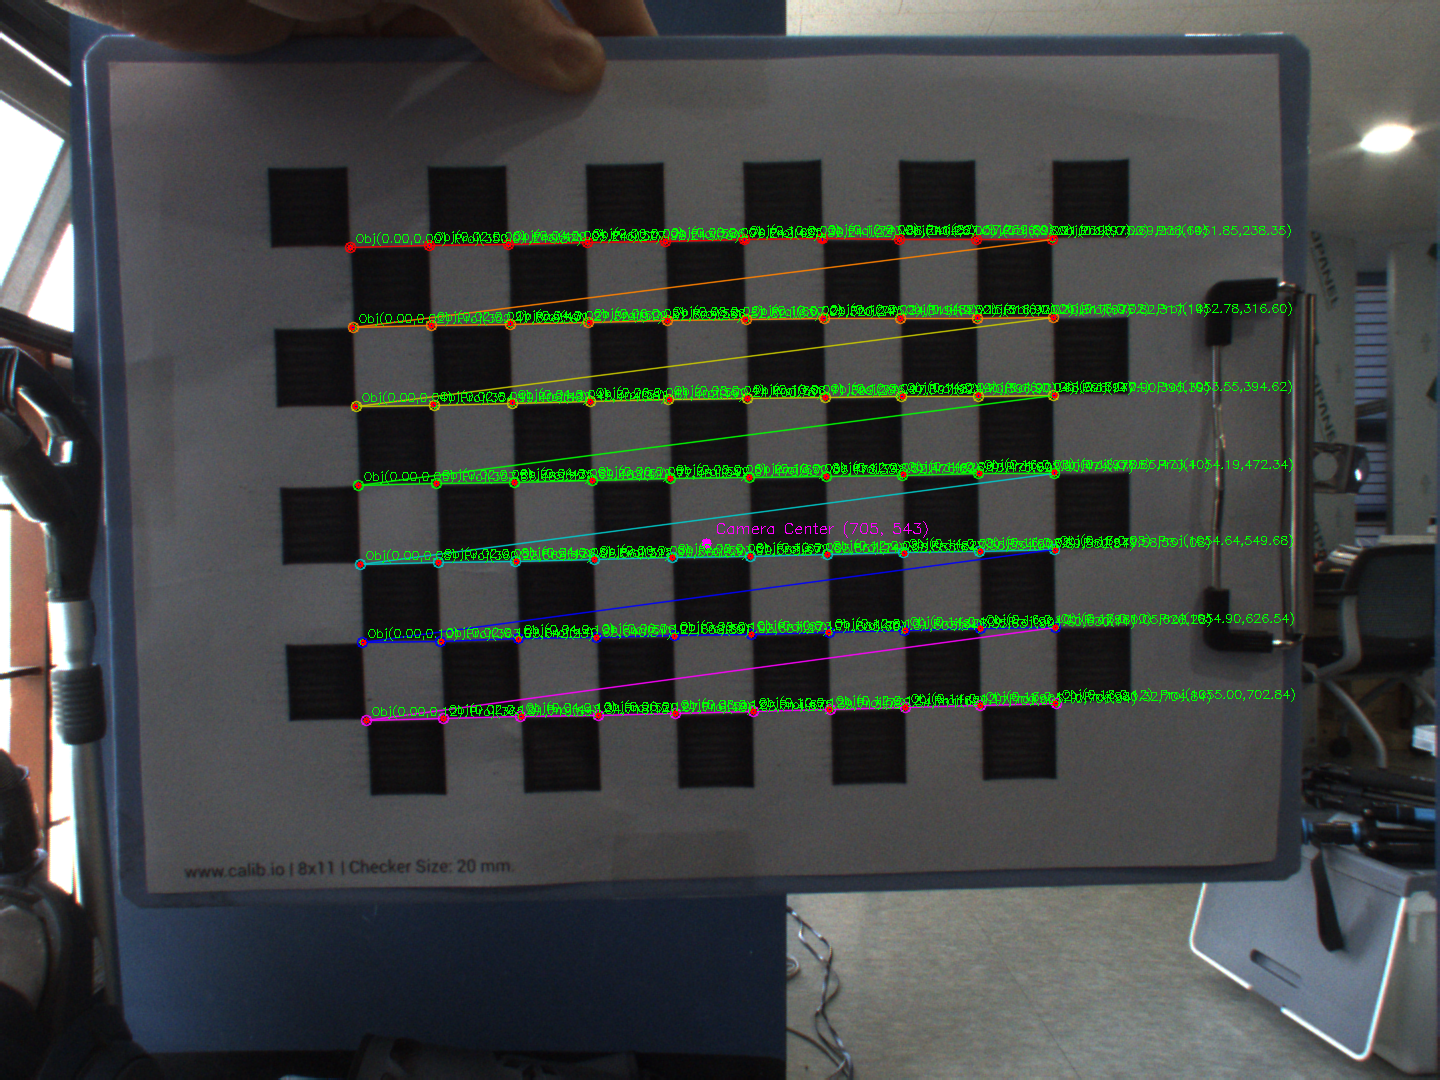
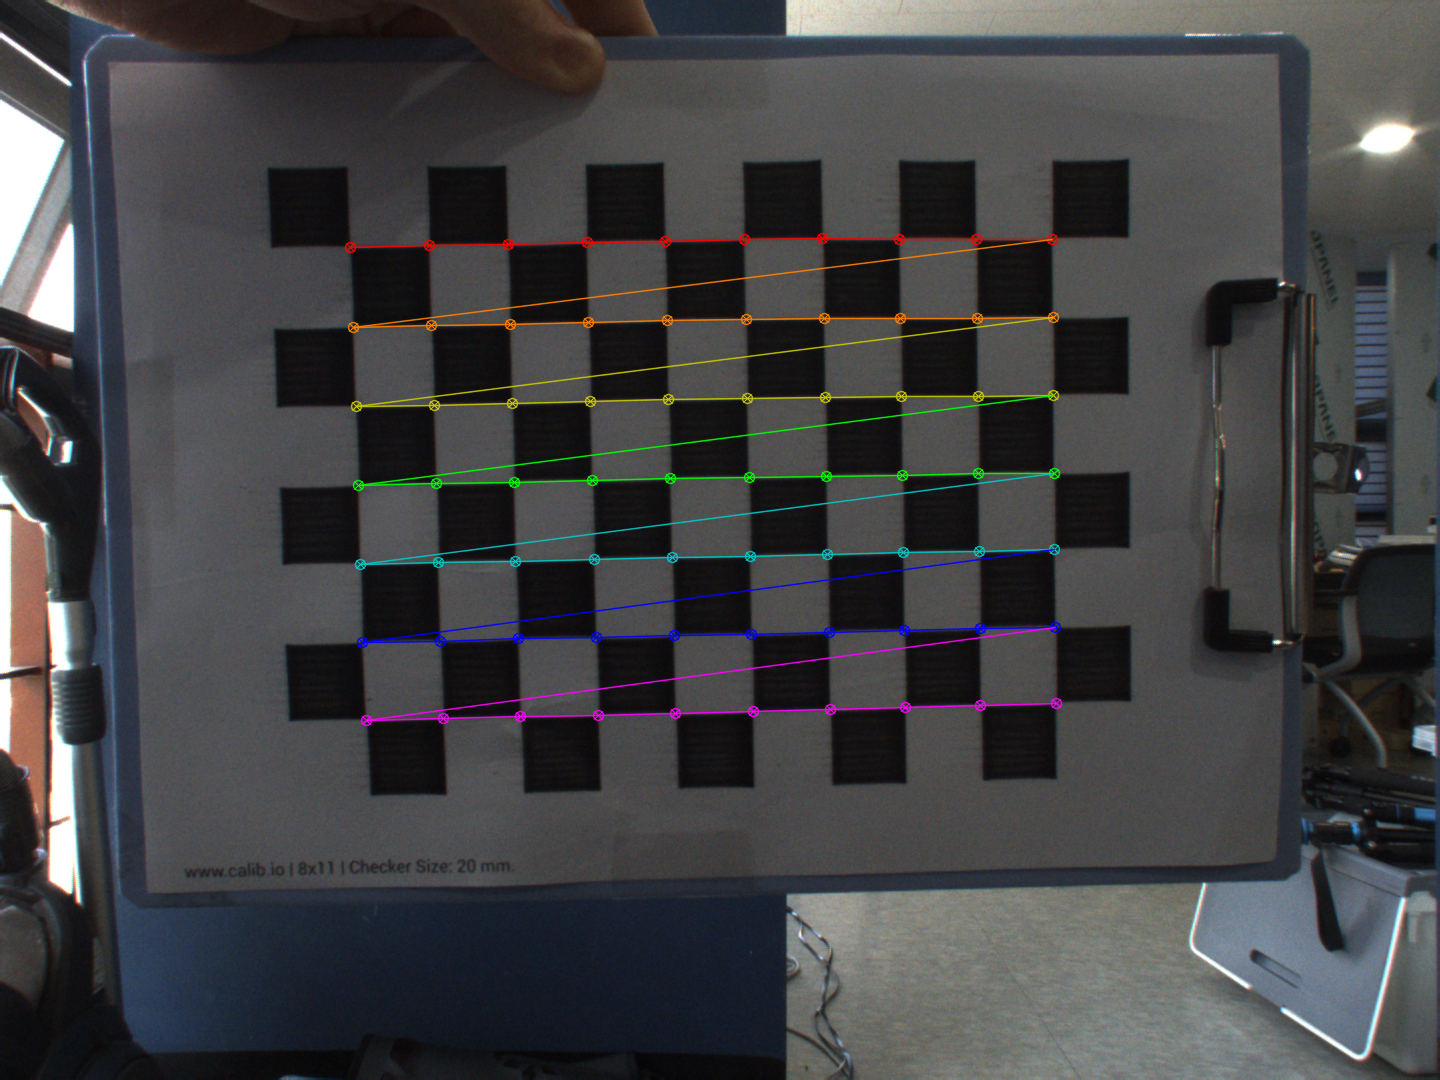
25/07/02

diff --git a/sensor_fusion_study/src/cv_callibration.cpp b/sensor_fusion_study/src/cv_callibration.cpp
@@ -21,6 +21,7 @@ public:
     declare_parameter("square_size", 0.020);
     declare_parameter("frame_width", 1440);
     declare_parameter("frame_height", 1080);
+    declare_parameter("where", "company");
 
     get_parameter("select_connect", select_connect_);
     get_parameter("device_path", device_path_);
@@ -29,6 +30,7 @@ public:
     get_parameter("square_size", square_size_);
     get_parameter("frame_width", frame_width_);
     get_parameter("frame_height", frame_height_);
+    get_parameter("where", where_);
 
     RCLCPP_INFO(this->get_logger(), "Open camera using %s", select_connect_.c_str());
     RCLCPP_INFO(this->get_logger(), "checkerboard %d x %d", cols_, rows_);
@@ -53,8 +55,18 @@ public:
           std::bind(&CalibrationNode::timer_callback, this));
     }
 
-    save_path_ = "/home/icrs/fusion_study/src/test_opencv/calib_images/";
-    fs::create_directories(save_path_);
+    if (where_ == "company")
+    {
+      save_origin_path_ = "/home/antlab/sensor_fusion_study/src/sensor_fusion_study/origin_images/";
+      save_calib_path_ = "/home/antlab/sensor_fusion_study/src/sensor_fusion_study/calib_images/";
+    }
+    else if (where_ == "home")
+    {
+      save_origin_path_ = "/home/icrs/sensor_fusion_study_ws/src/sensor_fusion_study/origin_images/";
+      save_calib_path_ = "/home/icrs/sensor_fusion_study_ws/src/sensor_fusion_study/calib_images/";
+    }
+    fs::create_directories(save_origin_path_);
+    fs::create_directories(save_calib_path_);
   }
 
 private:
@@ -134,13 +146,13 @@ private:
     }
     else if (key == 'e')
     {
-      calibration_error(obj_points_, img_points_, rvecs_, tvecs_, camera_matrix_, dist_coeffs_, image_files_);
+      calibration_error(obj_points_, img_points_, rvecs_, tvecs_, camera_matrix_, dist_coeffs_, successful_indices_);
     }
   }
 
   void save_current_frame(const cv::Mat &frame)
   {
-    std::string filename = save_path_ + "img_" + std::to_string(frame_counter_) + ".png";
+    std::string filename = save_origin_path_ + "img_" + std::to_string(frame_counter_) + ".png";
     cv::imwrite(filename, frame);
     RCLCPP_INFO(this->get_logger(), "Save Image: %s", filename.c_str());
     frame_counter_++;
@@ -160,9 +172,9 @@ private:
 
   void run_calibration_from_folder()
   {
-    RCLCPP_INFO(this->get_logger(), "Start callibration...");
+    RCLCPP_INFO(this->get_logger(), "Start calibration...");
 
-    cv::glob(save_path_ + "*.png", image_files_);
+    cv::glob(save_origin_path_ + "*.png", image_files_);
     if (image_files_.size() < 5)
     {
       RCLCPP_WARN(this->get_logger(), "Not enough image (%lu)", image_files_.size());
@@ -182,6 +194,9 @@ private:
       for (int j = 0; j < pattern_size.width; ++j)
         objp.emplace_back(j * square_size, i * square_size, 0.0f);
 
+        
+  successful_indices_.clear();
+
     for (size_t idx = 0; idx < image_files_.size(); ++idx)
     {
       const auto &file = image_files_[idx];
@@ -199,6 +214,7 @@ private:
         cv::cvtColor(img, gray, cv::COLOR_BGR2GRAY);
         cv::cornerSubPix(gray, corners, cv::Size(5, 5), cv::Size(-1, -1),
                          cv::TermCriteria(cv::TermCriteria::EPS + cv::TermCriteria::MAX_ITER, 30, 0.001));
+
         img_points_.push_back(corners);
         obj_points_.push_back(objp);
 
@@ -212,61 +228,31 @@ private:
         fs << "rotation" << rvecs_;
         fs << "translation" << tvecs_;
         fs.release();
-        RCLCPP_INFO(this->get_logger(), "Successed result saving: calibration_result.yaml");
+        RCLCPP_INFO(this->get_logger(), "Succeeded result saving: calibration_result.yaml");
 
-        // reprojection 계산
-        std::vector<cv::Point2f> projected_points;
-        cv::projectPoints(objp, rvecs_[idx], tvecs_[idx],
-                          camera_matrix_, dist_coeffs_, projected_points);
-
-        double cx = camera_matrix_.at<double>(0, 2);
-        double cy = camera_matrix_.at<double>(1, 2);
-
+        // ✅ 여기부터 시각화 코드 최소화
         cv::Mat vis = img.clone();
+
+        // corners 만 표시 (체스보드 코너)
         cv::drawChessboardCorners(vis, pattern_size, corners, found);
 
-                // 카메라 중심 점 그리기
-        cv::circle(vis, cv::Point2f(cx, cy), 5, cv::Scalar(255, 0, 255), -1);
-        cv::putText(vis, "Camera Center (" + std::to_string(int(cx)) + ", " + std::to_string(int(cy)) + ")",
-                    cv::Point(cx + 10, cy - 10),
-                    cv::FONT_HERSHEY_SIMPLEX, 0.5, cv::Scalar(255, 0, 255), 1);
-
-        for (size_t i = 0; i < corners.size(); ++i)
-        {
-          const cv::Point3f &p_obj = objp[i];
-          const cv::Point2f &p_proj = projected_points[i];
-          const cv::Point2f &p_actual = corners[i];
-
-          std::ostringstream ss;
-          ss << std::fixed << std::setprecision(2)
-             << "Obj(" << p_obj.x << "," << p_obj.y << ") "
-             << "Proj(" << p_proj.x << "," << p_proj.y << ")";
-
-          // 실제 코너 점 표시 (초록)
-          cv::circle(vis, p_actual, 3, cv::Scalar(0, 255, 0), -1);
-          cv::putText(vis, ss.str(), p_actual + cv::Point2f(5, -5),
-                      cv::FONT_HERSHEY_SIMPLEX, 0.4, cv::Scalar(0, 255, 0), 1);
-
-          // 재투영 점 표시 (빨강)
-          cv::circle(vis, p_proj, 3, cv::Scalar(0, 0, 255), -1);
-          cv::line(vis, p_actual, p_proj, cv::Scalar(255, 0, 0), 1);
-        }
-
-        std::string save_name = save_path_ + "img_" + std::to_string(idx) + "_calib_result.png";
+        std::string save_name = save_calib_path_ + "img_" + std::to_string(idx) + "_calib_result.png";
         cv::imwrite(save_name, vis);
         RCLCPP_INFO(this->get_logger(), "Save calibration image: %s", save_name.c_str());
+      successful_indices_.push_back(idx);
       }
       else
       {
+        // 코너 검출 실패 시 원본 이미지만 저장
         cv::Mat vis = img.clone();
-        std::string failed_save_name = save_path_ + "img_" + std::to_string(idx) + "_failed_result.png";
+        std::string failed_save_name = save_calib_path_ + "img_" + std::to_string(idx) + "_failed_result.png";
         cv::imwrite(failed_save_name, vis);
         RCLCPP_INFO(this->get_logger(), "Save failed image: %s", failed_save_name.c_str());
       }
 
       if (img_points_.empty())
       {
-        RCLCPP_ERROR(this->get_logger(), "Failed callibration.");
+        RCLCPP_ERROR(this->get_logger(), "Failed calibration.");
         return;
       }
     }
@@ -278,64 +264,66 @@ private:
                          const std::vector<cv::Mat> &tvecs_,
                          const cv::Mat &camera_matrix_,
                          const cv::Mat &dist_coeffs_,
-                         std::vector<cv::String> &image_files_)
+                         const std::vector<int> &successful_indices_)
   {
 
-    cv::glob(save_path_ + "*_calib_result.png", image_files_);
-    std::sort(image_files_.begin(), image_files_.end(),
-              [this](const std::string &a, const std::string &b)
-              {
-                return extract_number(a) < extract_number(b);
-              });
-    for (size_t i = 0; i < image_files_.size(); ++i)
+    for (size_t i = 0; i < successful_indices_.size(); ++i)
+  {
+    int idx = successful_indices_[i];
+
+    // 원본 이미지 경로
+    std::string origin_file = save_origin_path_ + "img_" + std::to_string(idx) + ".png";
+    cv::Mat img = cv::imread(origin_file);
+    if (img.empty())
     {
-      cv::Mat img = cv::imread(image_files_[i]);
-      if (img.empty())
-      {
-        RCLCPP_WARN(rclcpp::get_logger("calibration_error"),
-                    "Image load failed: %s", image_files_[i].c_str());
-        i++;
-        continue;
-      }
-
-      std::vector<cv::Point2f> projected_points;
-      cv::projectPoints(obj_points_[i], rvecs_[i], tvecs_[i],
-                        camera_matrix_, dist_coeffs_, projected_points);
-
-      cv::Mat ideal_dist = cv::Mat::zeros(1, 5, CV_64F);
-      double i_mat[] = {1014.5, 0.0, 720.0,
-                        0.0, 1014.5, 540.0,
-                        0.0, 0.0, 1.0};
-      cv::Mat ideal_camera_matrix(3, 3, CV_64F, i_mat);
-
-      std::vector<cv::Point2f> projected_ideal;
-      cv::projectPoints(obj_points_[i], rvecs_[i], tvecs_[i],
-                        ideal_camera_matrix, ideal_dist, projected_ideal);
-      cv::Mat vis = img.clone();
-      for (size_t j = 0; j < img_points_[i].size(); ++j)
-      {
-        cv::Point2f actual = img_points_[i][j];
-        cv::Point2f reprojected = projected_points[j];
-        cv::Point2f &reproj_ideal = projected_ideal[j];
-
-        cv::circle(vis, actual, 2, cv::Scalar(0, 255, 0), -1);        // 실제 코너: 초록
-        cv::circle(vis, reprojected, 2, cv::Scalar(0, 0, 255), -1);   // 재투영 코너: 빨강
-        cv::circle(vis, reproj_ideal, 4, cv::Scalar(255, 0, 0), -1);  // 재투영 코너: 빨강
-        cv::line(vis, actual, reprojected, cv::Scalar(255, 0, 0), 1); // 연결선: 파랑
-      }
-      std::string save_name = save_path_ + "img_" + std::to_string(i) + "_error_calib_result.png";
-      cv::imwrite(save_name, vis);
-
-      cv::Point3f p = obj_points_[i][69];
-      cv::Point2f c = img_points_[i][69];
-
-      std::cout << "세 번째 코너의 월드 좌표: " << p << std::endl;
-      std::cout << "세 번째 코너의 이미지 좌표: " << c << std::endl;
+      RCLCPP_WARN(rclcpp::get_logger("calibration_error"),
+                  "Image load failed: %s", origin_file.c_str());
+      continue;
     }
+
+    std::vector<cv::Point2f> projected_points;
+    cv::projectPoints(obj_points_[i], rvecs_[i], tvecs_[i],
+                      camera_matrix_, dist_coeffs_, projected_points);
+
+    cv::Mat ideal_dist = cv::Mat::zeros(1, 5, CV_64F);
+    double i_mat[] = {1014.5, 0.0, 720.0,
+                      0.0, 1014.5, 540.0,
+                      0.0, 0.0, 1.0};
+    cv::Mat ideal_camera_matrix(3, 3, CV_64F, i_mat);
+
+    std::vector<cv::Point2f> projected_ideal;
+    cv::projectPoints(obj_points_[i], rvecs_[i], tvecs_[i],
+                      ideal_camera_matrix, ideal_dist, projected_ideal);
+
+    cv::Mat vis = img.clone();
+    for (size_t j = 0; j < img_points_[i].size(); ++j)
+    {
+      cv::Point2f actual = img_points_[i][j];
+      cv::Point2f reprojected = projected_points[j];
+      cv::Point2f reproj_ideal = projected_ideal[j];
+
+      cv::circle(vis, actual, 2, cv::Scalar(0, 255, 0), -1);
+      cv::circle(vis, reprojected, 2, cv::Scalar(0, 0, 255), -1);
+      cv::circle(vis, reproj_ideal, 4, cv::Scalar(255, 0, 0), -1);
+      cv::line(vis, actual, reprojected, cv::Scalar(255, 0, 0), 1);
+    }
+
+    std::string save_name = save_calib_path_ + "img_" + std::to_string(idx) + "_error_calib_result.png";
+    cv::imwrite(save_name, vis);
+    RCLCPP_INFO(this->get_logger(), "Save error visualization: %s", save_name.c_str());
+
+    cv::Point3f p = obj_points_[i][69];
+    cv::Point2f c = img_points_[i][69];
+
+    std::cout << "세 번째 코너의 월드 좌표: " << p << std::endl;
+    std::cout << "세 번째 코너의 이미지 좌표: " << c << std::endl;
+  }
   }
 
   rclcpp::Subscription<sensor_msgs::msg::Image>::SharedPtr subscription_;
-  std::string save_path_;
+  std::string save_origin_path_;
+  std::string save_calib_path_;
+  std::string where_;
   cv::Mat current_frame_;
   int frame_counter_;
 
@@ -352,6 +340,8 @@ private:
   std::vector<cv::Mat> rvecs_, tvecs_;
   cv::Mat camera_matrix_, dist_coeffs_;
   std::vector<cv::String> image_files_;
+
+  std::vector<int> successful_indices_;
 };
 
 int main(int argc, char **argv)

diff --git a/sensor_fusion_study/src/cam_lidar_cali.cpp b/sensor_fusion_study/src/cam_lidar_cali.cpp
@@ -84,8 +84,16 @@ private:
         distortion_coeffs_ = (cv::Mat_<double>(1, 5) << -1.3724382468171908e-01, 4.9079709117302012e-01,
                               8.2971299771431115e-03, -4.5215579888173568e-03,
                               -7.7949268098546165e-01);
-
-        std::string absolute_path = "/home/antlab/fusion_study_ws/src/sensor_fusion_study";
+        std::string where = "home";
+        std::string absolute_path;
+        if (where == "company")
+        {
+            absolute_path = "/home/antlab/sensor_fusion_study/src/sensor_fusion_study";
+        }
+        else if (where == "home")
+        {
+            absolute_path = "/home/icrs/sensor_fusion_study_ws/src/sensor_fusion_study";
+        }
         // auto absolute_path = ament_index_cpp::get_package_share_directory("/src/sensor_fusion_study");
         img_path_ = absolute_path + "/capture/image.png";
         pcd_path_ = absolute_path + "/capture/pointcloud.pcd";
@@ -293,7 +301,7 @@ private:
                 cb_object_points.emplace_back(j * square_size_, i * square_size_, 0.0);
             }
         }
-        
+
         cv::Mat R;
         cv::Rodrigues(cb2cam_rvec_, R);
         std::vector<cv::Point3f> cb2cam_points;
